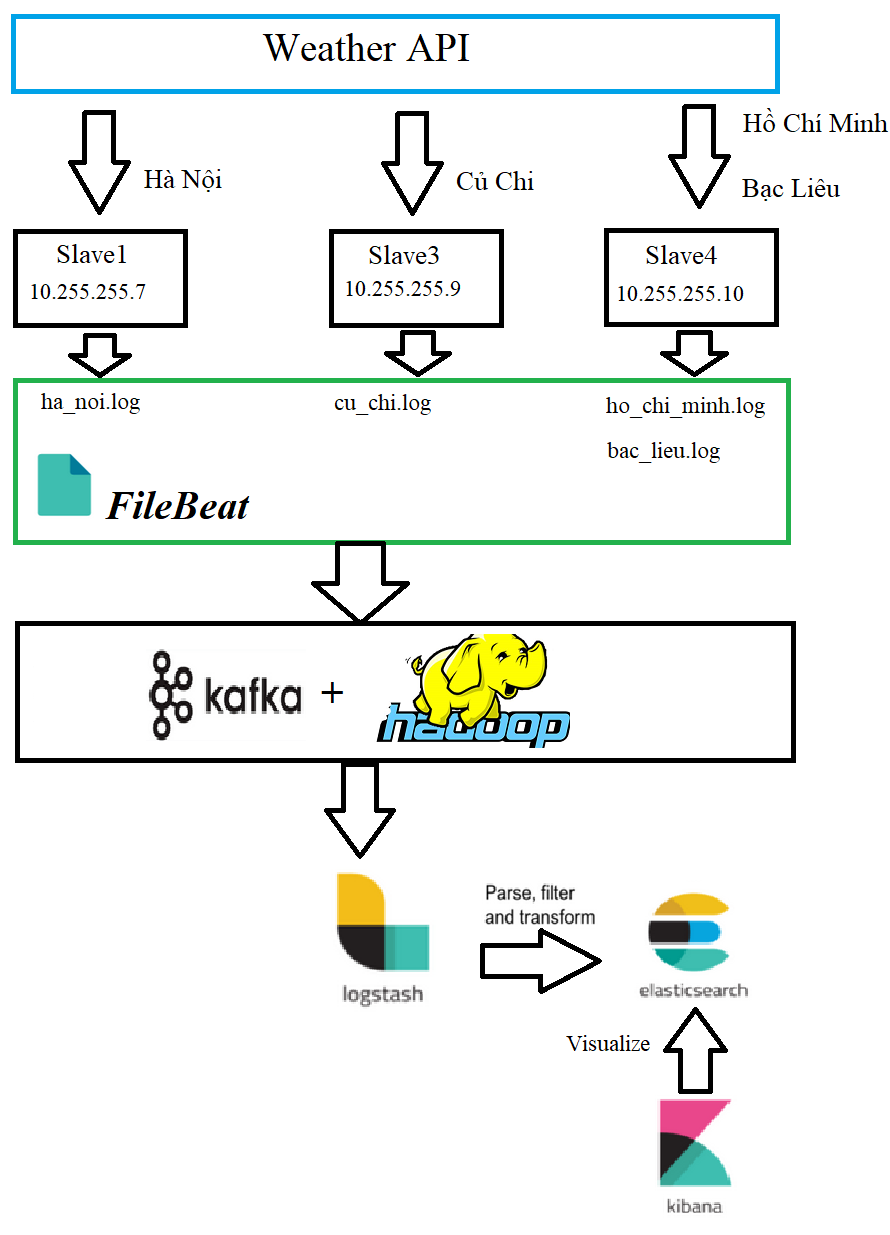
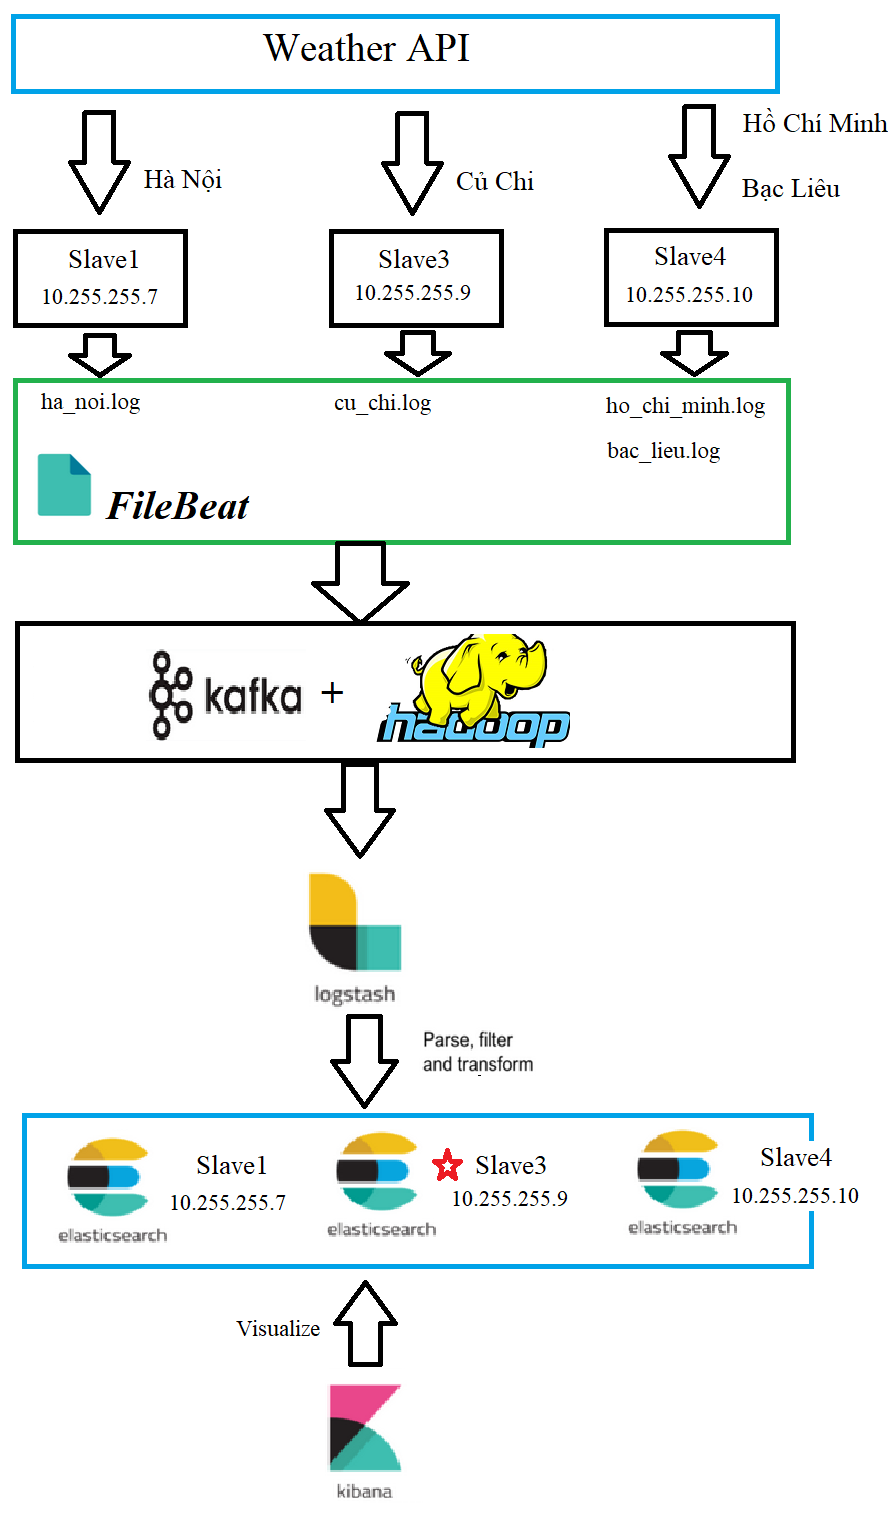
Scale up Elasticsearch

Changed region(s): [[0.0, 0.0, 1.0, 1.0], [0.0, 0.7385, 0.0304, 0.8308], [0.0, 0.1538, 0.0304, 0.1846]]

diff --git a/README.md b/README.md
@@ -37,10 +37,16 @@ Chạy script cài đặt
 
 ### Bước 2: Cấu hình Elasticsearch tại /etc/elasticsearch/elasticsearch.yml
 >```
+>cluster.name: real-time-weather
+>
+>node.name: slave1
+>
 >network.host: 10.255.255.7
 >http.port: 9200
 >
->cluster.initial_master_nodes: ["10.255.255.7"]
+>discovery.seed_hosts: ["10.255.255.7", "10.255.255.9", "10.255.255.10"]
+>
+>cluster.initial_master_nodes: ["10.255.255.9"]
 >```
 >Tham khảo tại **config/elasticsearch.yml**
 
@@ -95,6 +101,14 @@ Chạy script cài đặt
 >./real-time-weather/command/setup-slave2.sh
 >```
 
+### Bước 2: Cấu hình Kibana tại /etc/kibana/kibana.yml
+>```
+>server.port: 5601
+>
+>elasticsearch.hosts: ["http://10.255.255.9:9200"]
+>```
+
+
 
 # Slave3
 Cấu hình:
@@ -109,7 +123,22 @@ Chạy script cài đặt
 >./real-time-weather/command/setup-slave3.sh
 >```
 
-### Bước 1: Cấu hình Logstash
+### Bước 2: Cấu hình Elasticsearch tại /etc/elasticsearch/elasticsearch.yml
+>```
+>cluster.name: real-time-weather
+>
+>node.name: slave3
+>
+>network.host: 10.255.255.9
+>http.port: 9200
+>
+>discovery.seed_hosts: ["10.255.255.7", "10.255.255.9", "10.255.255.10"]
+>
+>cluster.initial_master_nodes: ["10.255.255.9"]
+>```
+>Tham khảo tại **config/elasticsearch.yml**
+
+### Bước 3: Cấu hình Logstash
 >```
 >sudo vim /etc/logstash/conf.d/weather.conf
 >```
@@ -138,7 +167,7 @@ Chạy script cài đặt
 >```
 > Tham khảo tại **config/logstash.conf**
 
-### Bước 3: Cấu hình Filebeat
+### Bước 4: Cấu hình Filebeat
 >```
 >sudo vim /etc/filebeat/filebeat.yml
 >```
@@ -189,7 +218,22 @@ Cấu hình:
 >./real-time-weather/command/setup-slave4.sh
 >```
 
-### Bước 2: Cấu hình Filebeat
+### Bước 2: Cấu hình Elasticsearch tại /etc/elasticsearch/elasticsearch.yml
+>```
+>cluster.name: real-time-weather
+>
+>node.name: slave4
+>
+>network.host: 10.255.255.10
+>http.port: 9200
+>
+>discovery.seed_hosts: ["10.255.255.7", "10.255.255.9", "10.255.255.10"]
+>
+>cluster.initial_master_nodes: ["10.255.255.9"]
+>```
+>Tham khảo tại **config/elasticsearch.yml**
+
+### Bước 3: Cấu hình Filebeat
 >```
 >sudo vim /etc/filebeat/filebeat.yml
 >```
@@ -236,13 +280,6 @@ Khởi tạo topic trong Kafka tại Master:
 >    --partitions 1 \ \
 >    --topic weather
 
-Kiểm tra Kafka:
-----------------------------------------
->/usr/hdp/current/kafka-broker/bin/kafka-console-consumer.sh \ \
->    --bootstrap-server 10.255.255.6:6667 \ \
->    --topic weather \ \
->    --from-beginning
-
 Lấy thông thời tiết theo thời gian thực tại Slave1, Slave3, Slave 4:
 --------------------------------------------------------------------
 ### Bước 1: Chạy môi trường virtualenv
@@ -269,6 +306,7 @@ Kết quả lấy thông tin thời tiết qua API:
 ----------------------------------------
 ![](img/GetAPIWether.png "Thông tin thời tiết")
 
+
 Chay Filebeat
 -------------------
 Phần quyền thực thi cho file .sh
@@ -282,9 +320,20 @@ Chạy script
 
 Kiểm tra Filebeat:
 ----------------------------------------
-sudo /usr/bin/filebeat -c /etc/filebeat/filebeat.yml -e -d '*'
+>sudo /usr/bin/filebeat -c /etc/filebeat/filebeat.yml -e -d '*'
+![](img/TestFilebeat.png "Test Filebeat")
 
-Khởi động Elasticsearch tại Slave1:
+
+Kiểm tra Kafka:
+----------------------------------------
+>/usr/hdp/current/kafka-broker/bin/kafka-console-consumer.sh \ \
+>    --bootstrap-server 10.255.255.6:6667 \ \
+>    --topic weather \ \
+>    --from-beginning
+![](img/TestKafka.png "Test Kafka")
+
+
+Khởi động Elasticsearch tại Slave1, Slave3, Slave4:
 --------------------------------------------------------------------
 Phần quyền thực thi cho file .sh
 >```
@@ -294,6 +343,13 @@ Chạy script
 >```
 >./real-time-weather/command/startElasticsearch.sh
 >```
+### Chú ý: Khởi động master trước sau đó tới 2 node data. 
+Kiểm tra Elasticsearch:
+----------------------------------------
+>curl http://10.255.255.9:9200/_cat/health?v \
+>curl http://10.255.255.7:9200/_cat/nodes?v
+![](img/TestElasticsearch.png "Test Elasticsearch")
+
 
 Khởi động Logstash tại Slave2:
 -------------------
@@ -305,6 +361,7 @@ Chạy script
 >```
 >./real-time-weather/command/startLogstash.sh
 >```
+
 
 Khởi động Kibana tại Slave3:
 -------------------
@@ -319,7 +376,8 @@ Chạy script
 
 
 ## Thông tin thời tiết theo thời gian thực
-![](img/LogstashWeather.png "Thông tin thời tiết theo thời gian thực")
+![](img/LogstashWeather.png "Thông tin thời tiết theo thời gian thực") 
+![](img/KibanaMonitoring.png "Thông tin Elasticsearch")
 
 # Một số lệnh khác
 Dừng Filebeat
